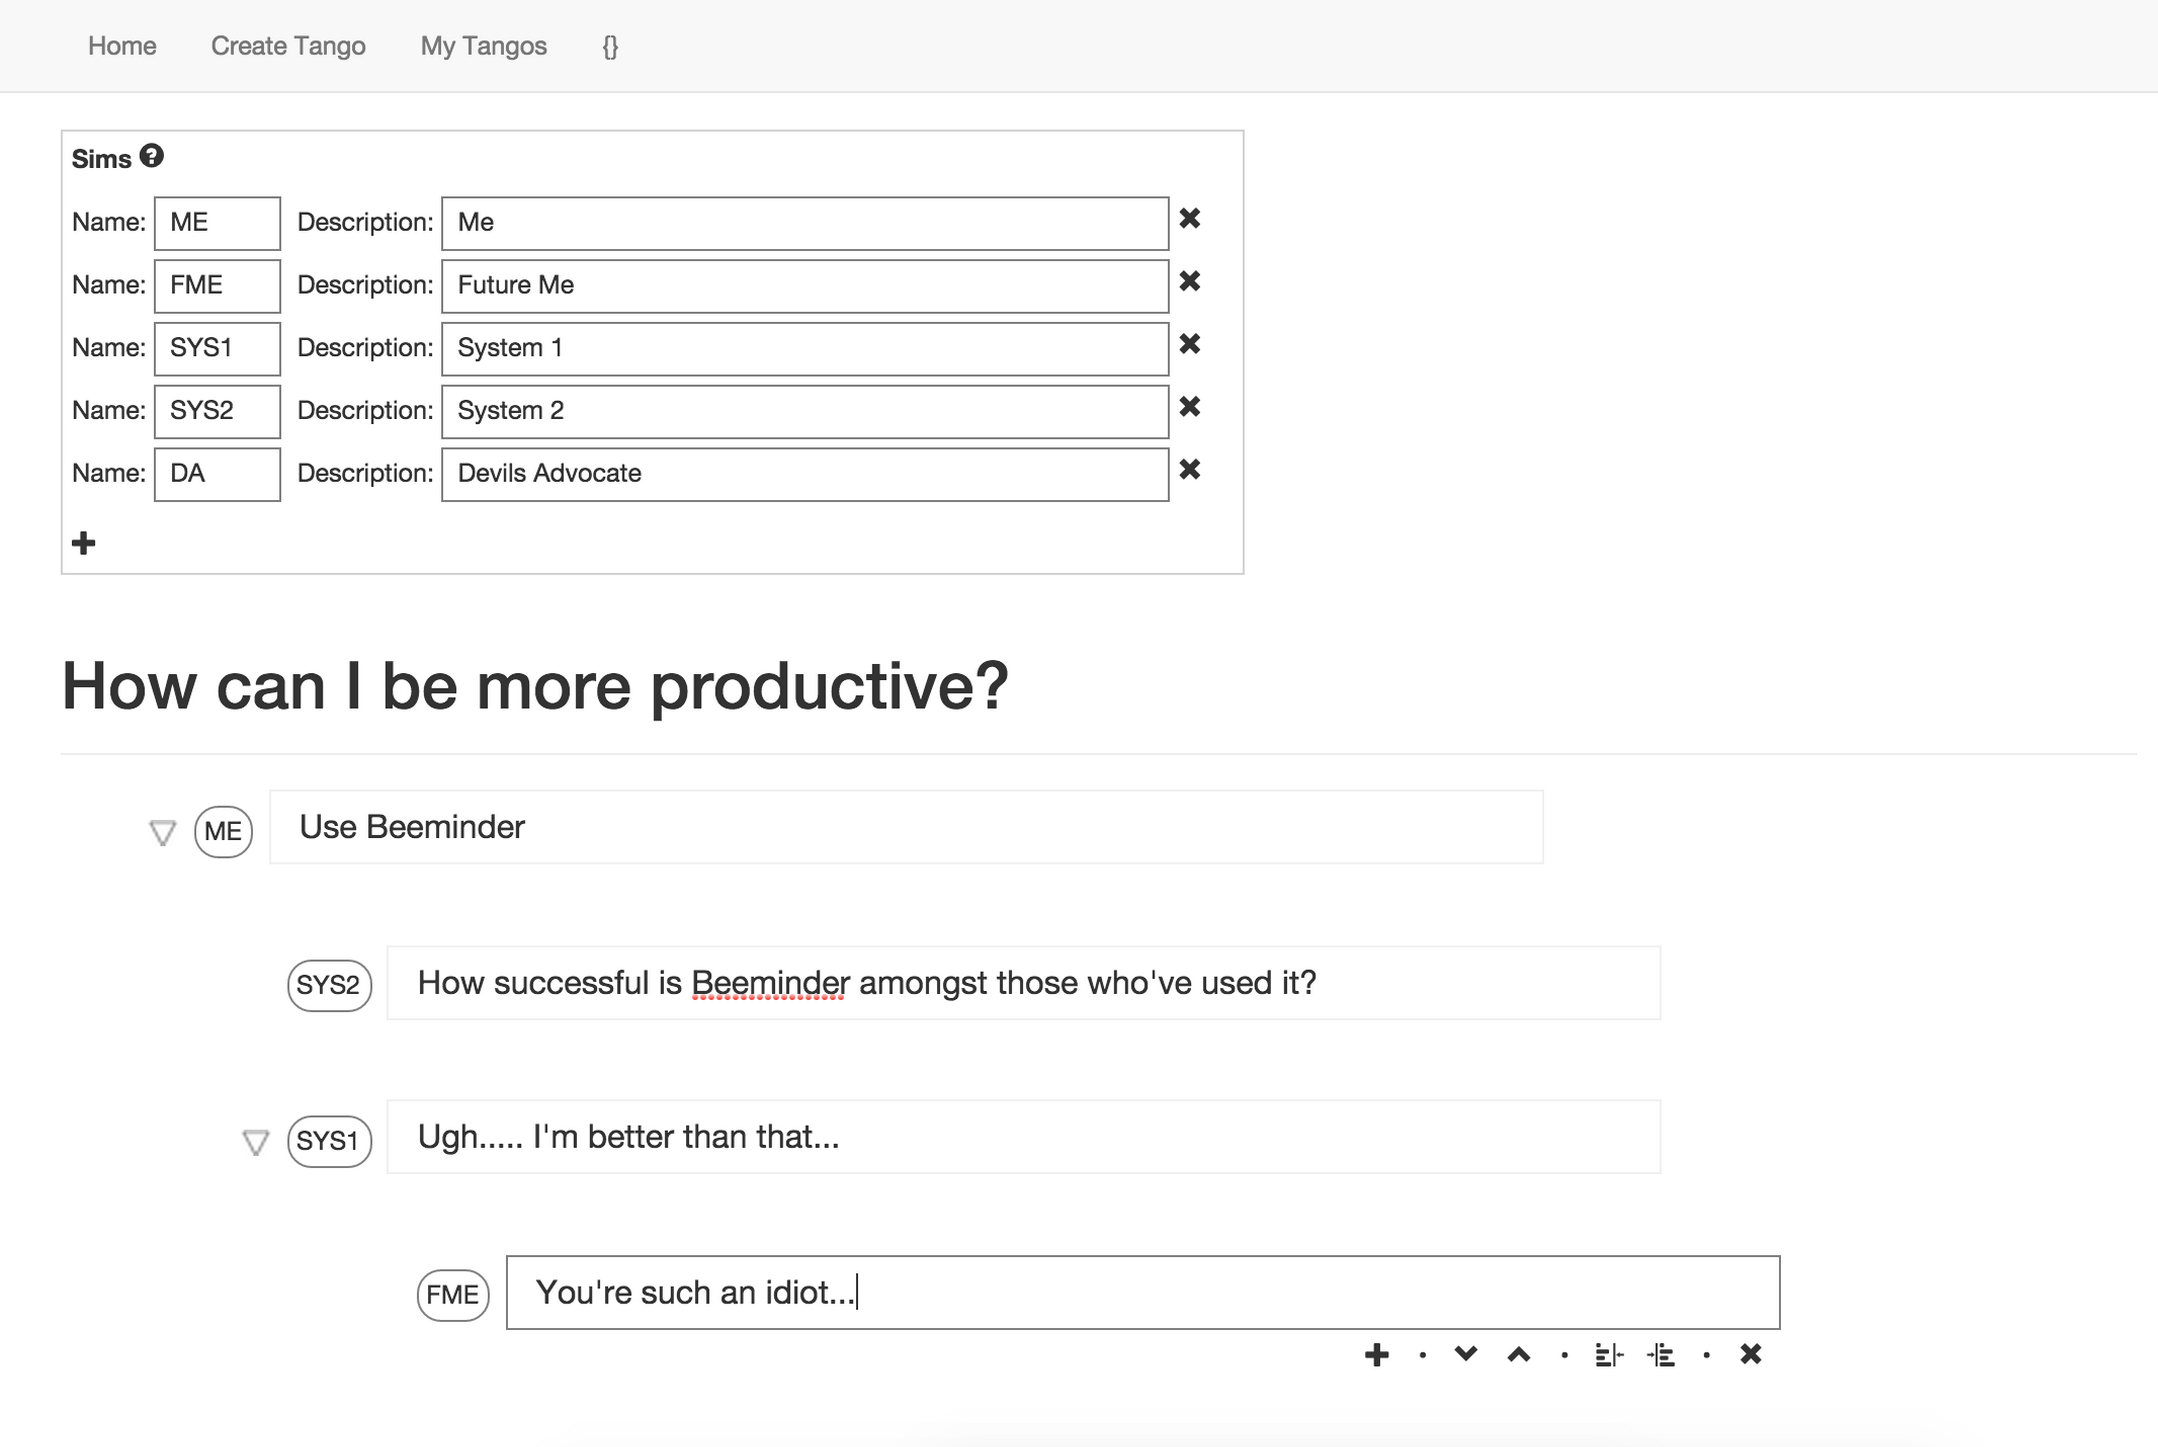
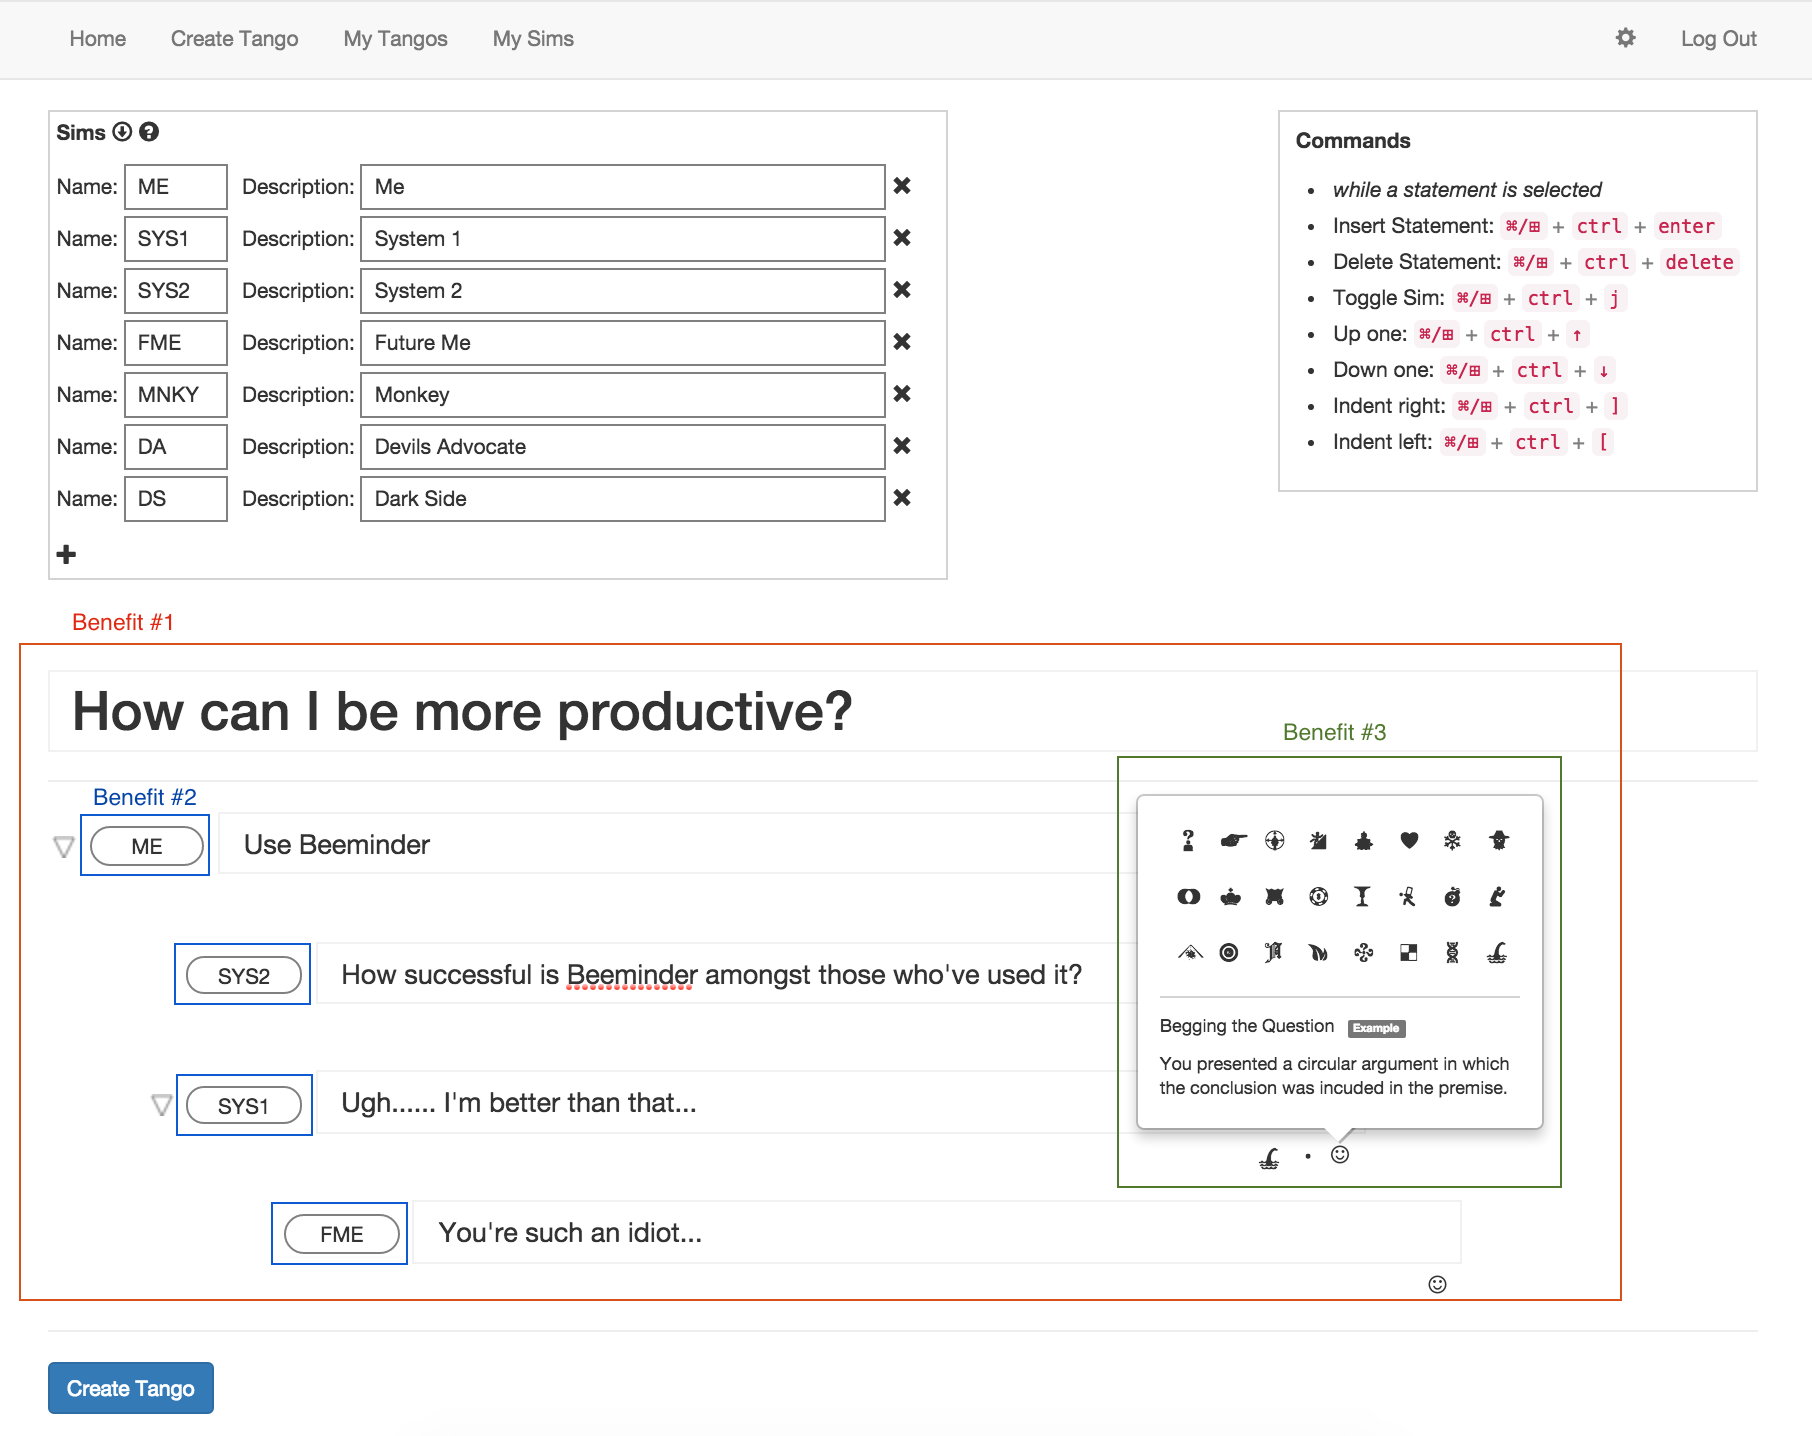
Updated home page

diff --git a/client/src/states/home/home.html b/client/src/states/home/home.html
@@ -15,7 +15,7 @@
 
 <div class='row'>
   <div class='col-xs-5 content'>
-    <h3>Benefit #1 - Visualize the structure. Offload your working memory.</h3>
+    <h3>Benefit #1 - Visualize nested structure. Offload your working memory.</h3>
     <ul>
       <li>
         <a href='https://medium.com/@adamzerner/representation-matters-f46d7acf8786'>Representation matters.</a>
@@ -26,6 +26,7 @@
       </li>
       <li>It's easier when the structure of your thoughts is right in front of you.</li>
       <li>Tango presents this structure to you.</li>
+      <li>Statements are collapsable, which makes it easier to see the big picture.</li>
     </ul>
 
     <h3>Benefit #2 - Back and forth is necessary.</h3>
@@ -44,6 +45,12 @@
         </div>
       </li>
       <li>Tango helps you simulate this back and forth by using Sims.</li>
+    </ul>
+
+    <h3>Benefit #3 - Reactions</h3>
+    <ul>
+      <li>Label something as fallacious with concise reactions.</li>
+      <li>The conciceness of the reacitons keeps the structure clean.</li>
     </ul>
   </div>
   <div class='col-xs-7'>

diff --git a/client/src/assets/css/app.css b/client/src/assets/css/app.css
@@ -91,6 +91,15 @@ button.az-loading {
 .home-template .content h3 {
   margin-top: 0; }
 
+.home-template .content .benefit-1 {
+  color: #c0392b; }
+
+.home-template .content .benefit-2 {
+  color: #2980b9; }
+
+.home-template .content .benefit-3 {
+  color: #27ae60; }
+
 .home-template .content blockquote {
   font-size: 14px;
   margin: 10px 0; }
